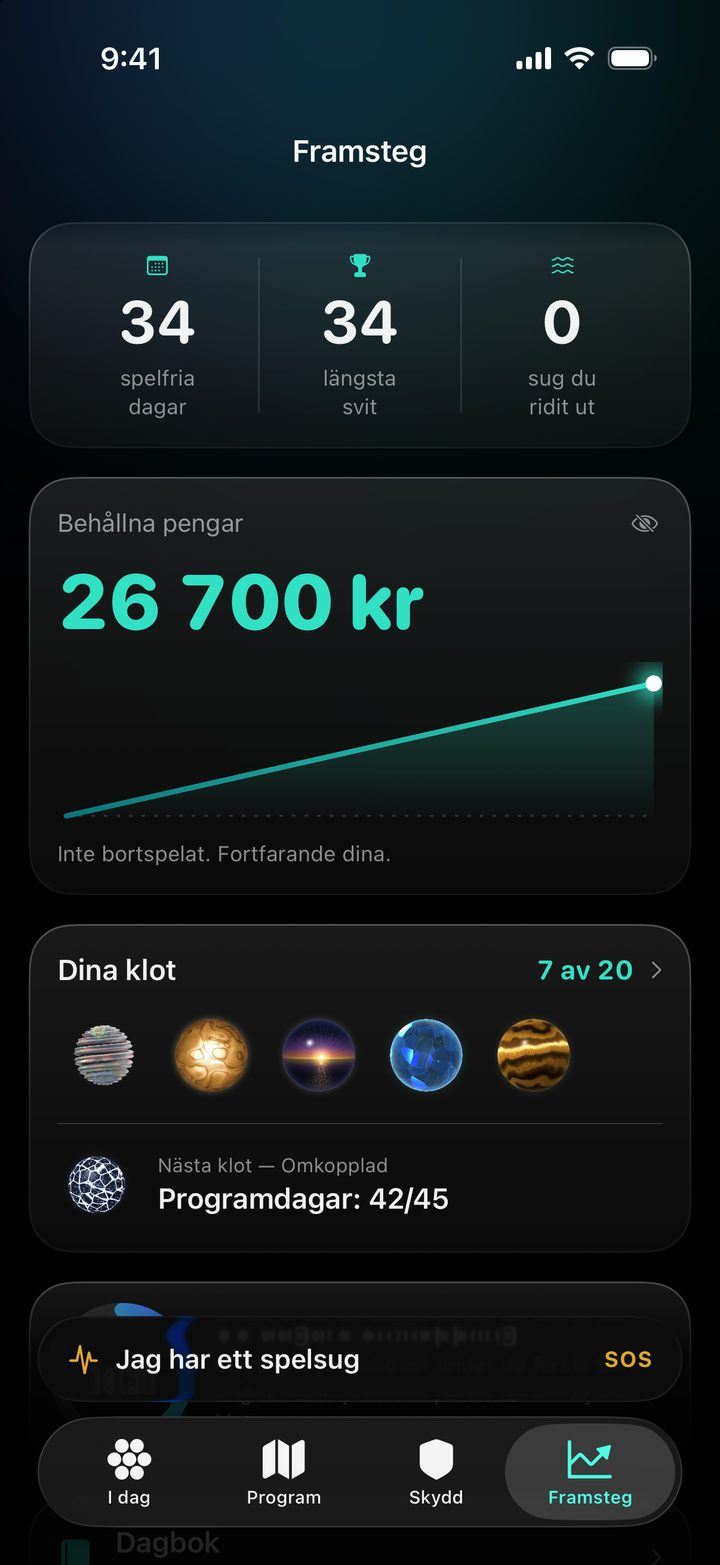
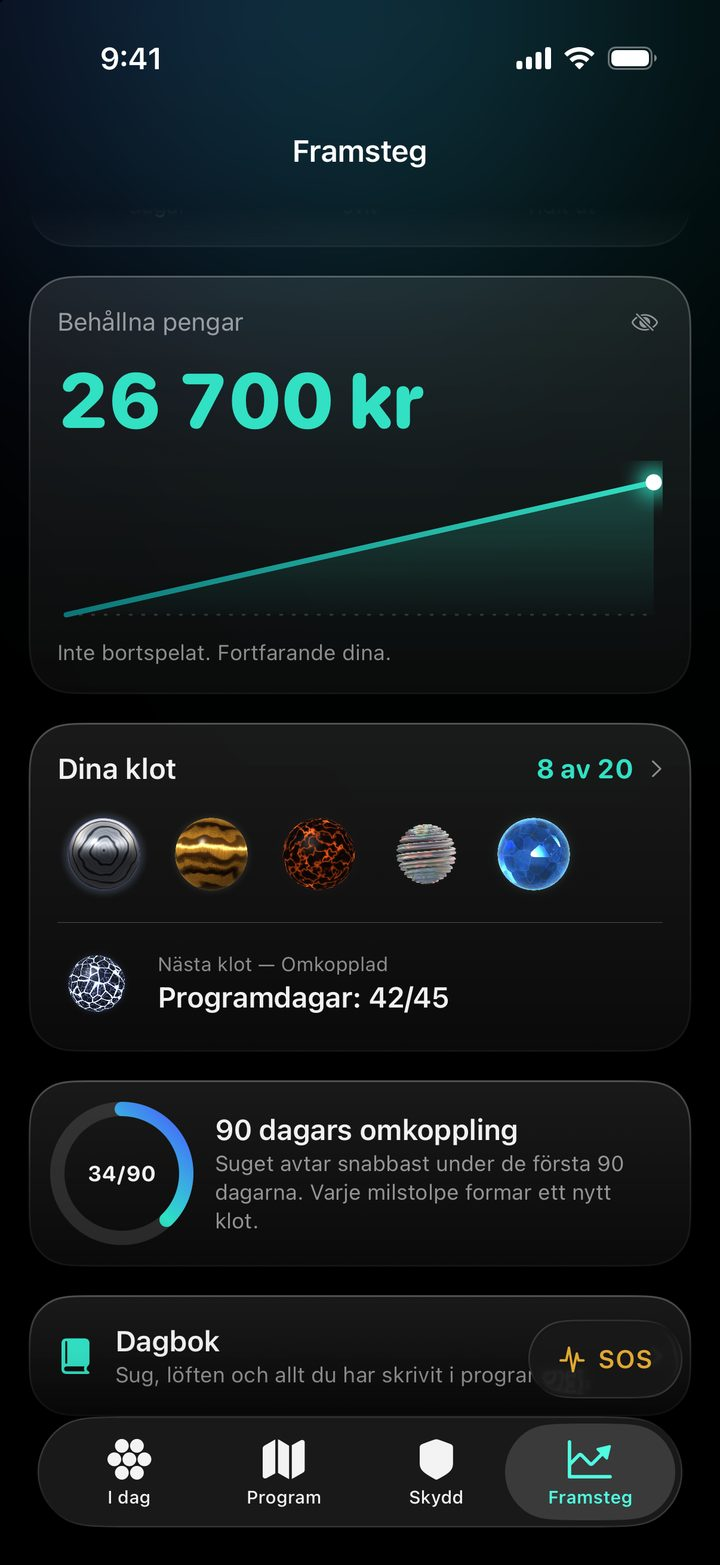
Homepage screenshots: current app design in all six languages
Same five screens (Today, Protection, Program, SOS, Progress) recaptured
from the current app, alt texts updated to match.

diff --git a/index.html b/index.html
@@ -57,7 +57,7 @@
     </div>
     <div class="hero-shot">
       <img class="phone" src="/assets/shots/dashboard.jpg" width="720" height="1565" fetchpriority="high"
-           alt="Silex home screen: 34 days free, $1,263 kept, today's pledge and today's program lesson.">
+           alt="Silex home screen: 34 days free, a clock counting the hours, $2,670 kept, and today's pledge.">
     </div>
   </div>
 </section>
@@ -79,7 +79,7 @@
     </div>
     <div class="feature-shot">
       <img class="phone" src="/assets/shots/protect.jpg" width="720" height="1565" loading="lazy"
-           alt="Protection screen: four of five layers active, split into automatic and guided layers.">
+           alt="Protection screen: five of five layers active, split into automatic and guided layers.">
     </div>
   </div>
 </section>
@@ -99,7 +99,7 @@
     </div>
     <div class="feature-shot">
       <img class="phone" src="/assets/shots/program.jpg" width="720" height="1565" loading="lazy"
-           alt="The 90-day Storm to Clarity program, on day 42, with the first phase's lessons listed.">
+           alt="The 90-day Storm to Clarity program on day 34, with finished days above and the days ahead below.">
     </div>
   </div>
 </section>
@@ -115,7 +115,7 @@
     </div>
     <div class="feature-shot">
       <img class="phone" src="/assets/shots/panic.jpg" width="720" height="1565" loading="lazy"
-           alt="The SOS screen asking how strong the urge is right now, rated 7 out of 9.">
+           alt="The SOS screen asking how strong the urge is right now, rated 9 out of 10.">
     </div>
   </div>
 </section>
@@ -131,7 +131,7 @@
     </div>
     <div class="feature-shot">
       <img class="phone" src="/assets/shots/money.jpg" width="720" height="1565" loading="lazy"
-           alt="Progress screen: $1,263 kept, seven of twenty orbs earned, and 34 of 90 days on the program.">
+           alt="Progress screen: $2,670 kept, eight of twenty orbs earned, and 34 of 90 days on the program.">
     </div>
   </div>
 </section>

diff --git a/src/pages/index.html b/src/pages/index.html
@@ -28,7 +28,7 @@
     </div>
     <div class="hero-shot">
       <img class="phone" src="/assets/shots/dashboard.jpg" width="720" height="1565" fetchpriority="high"
-           alt="Silex home screen: 34 days free, $1,263 kept, today's pledge and today's program lesson.">
+           alt="Silex home screen: 34 days free, a clock counting the hours, $2,670 kept, and today's pledge.">
     </div>
   </div>
 </section>
@@ -50,7 +50,7 @@
     </div>
     <div class="feature-shot">
       <img class="phone" src="/assets/shots/protect.jpg" width="720" height="1565" loading="lazy"
-           alt="Protection screen: four of five layers active, split into automatic and guided layers.">
+           alt="Protection screen: five of five layers active, split into automatic and guided layers.">
     </div>
   </div>
 </section>
@@ -70,7 +70,7 @@
     </div>
     <div class="feature-shot">
       <img class="phone" src="/assets/shots/program.jpg" width="720" height="1565" loading="lazy"
-           alt="The 90-day Storm to Clarity program, on day 42, with the first phase's lessons listed.">
+           alt="The 90-day Storm to Clarity program on day 34, with finished days above and the days ahead below.">
     </div>
   </div>
 </section>
@@ -86,7 +86,7 @@
     </div>
     <div class="feature-shot">
       <img class="phone" src="/assets/shots/panic.jpg" width="720" height="1565" loading="lazy"
-           alt="The SOS screen asking how strong the urge is right now, rated 7 out of 9.">
+           alt="The SOS screen asking how strong the urge is right now, rated 9 out of 10.">
     </div>
   </div>
 </section>
@@ -102,7 +102,7 @@
     </div>
     <div class="feature-shot">
       <img class="phone" src="/assets/shots/money.jpg" width="720" height="1565" loading="lazy"
-           alt="Progress screen: $1,263 kept, seven of twenty orbs earned, and 34 of 90 days on the program.">
+           alt="Progress screen: $2,670 kept, eight of twenty orbs earned, and 34 of 90 days on the program.">
     </div>
   </div>
 </section>

diff --git a/es/index.html b/es/index.html
@@ -57,7 +57,7 @@
     </div>
     <div class="hero-shot">
       <img class="phone" src="/assets/shots/es/dashboard.jpg" width="720" height="1565" fetchpriority="high"
-           alt="Pantalla de inicio de Silex: 34 días libres, el dinero guardado, el compromiso de hoy y la lección del programa.">
+           alt="Pantalla de inicio de Silex: 34 días libres, un reloj que cuenta las horas, el dinero conservado y el compromiso de hoy.">
     </div>
   </div>
 </section>
@@ -77,7 +77,7 @@
     </div>
     <div class="feature-shot">
       <img class="phone" src="/assets/shots/es/protect.jpg" width="720" height="1565" loading="lazy"
-           alt="Pantalla de protección: cuatro de cinco capas activas, entre automáticas y guiadas.">
+           alt="Pantalla de protección: cinco de cinco capas activas, entre automáticas y guiadas.">
     </div>
   </div>
 </section>
@@ -98,7 +98,7 @@
     </div>
     <div class="feature-shot">
       <img class="phone" src="/assets/shots/es/program.jpg" width="720" height="1565" loading="lazy"
-           alt="El programa de 90 días, en el día 42, con las lecciones de la primera fase.">
+           alt="El programa de 90 días, en el día 34, con los días ya hechos arriba y los siguientes abajo.">
     </div>
   </div>
 </section>
@@ -130,7 +130,7 @@
     </div>
     <div class="feature-shot">
       <img class="phone" src="/assets/shots/es/money.jpg" width="720" height="1565" loading="lazy"
-           alt="Pantalla de progreso: el dinero guardado, las piezas ganadas y los días del programa.">
+           alt="Pantalla de progreso: 2460 € conservados, 8 de 20 orbes y 34 de 90 días del programa.">
     </div>
   </div>
 </section>

diff --git a/src/pages/es/index.html b/src/pages/es/index.html
@@ -28,7 +28,7 @@
     </div>
     <div class="hero-shot">
       <img class="phone" src="/assets/shots/es/dashboard.jpg" width="720" height="1565" fetchpriority="high"
-           alt="Pantalla de inicio de Silex: 34 días libres, el dinero guardado, el compromiso de hoy y la lección del programa.">
+           alt="Pantalla de inicio de Silex: 34 días libres, un reloj que cuenta las horas, el dinero conservado y el compromiso de hoy.">
     </div>
   </div>
 </section>
@@ -48,7 +48,7 @@
     </div>
     <div class="feature-shot">
       <img class="phone" src="/assets/shots/es/protect.jpg" width="720" height="1565" loading="lazy"
-           alt="Pantalla de protección: cuatro de cinco capas activas, entre automáticas y guiadas.">
+           alt="Pantalla de protección: cinco de cinco capas activas, entre automáticas y guiadas.">
     </div>
   </div>
 </section>
@@ -69,7 +69,7 @@
     </div>
     <div class="feature-shot">
       <img class="phone" src="/assets/shots/es/program.jpg" width="720" height="1565" loading="lazy"
-           alt="El programa de 90 días, en el día 42, con las lecciones de la primera fase.">
+           alt="El programa de 90 días, en el día 34, con los días ya hechos arriba y los siguientes abajo.">
     </div>
   </div>
 </section>
@@ -101,7 +101,7 @@
     </div>
     <div class="feature-shot">
       <img class="phone" src="/assets/shots/es/money.jpg" width="720" height="1565" loading="lazy"
-           alt="Pantalla de progreso: el dinero guardado, las piezas ganadas y los días del programa.">
+           alt="Pantalla de progreso: 2460 € conservados, 8 de 20 orbes y 34 de 90 días del programa.">
     </div>
   </div>
 </section>

diff --git a/fi/index.html b/fi/index.html
@@ -133,7 +133,7 @@
     </div>
     <div class="feature-shot">
       <img class="phone" src="/assets/shots/fi/money.jpg" width="720" height="1565" loading="lazy"
-           alt="Edistys-näyttö: 34 rahapelitöntä päivää, säästetyt rahat 2 460 € ja seitsemän kehrää kahdestakymmenestä.">
+           alt="Edistys-näyttö: 34 rahapelitöntä päivää, säästetyt rahat 2 460 € ja kahdeksan kehrää kahdestakymmenestä.">
     </div>
   </div>
 </section>

diff --git a/src/pages/fi/index.html b/src/pages/fi/index.html
@@ -105,7 +105,7 @@
     </div>
     <div class="feature-shot">
       <img class="phone" src="/assets/shots/fi/money.jpg" width="720" height="1565" loading="lazy"
-           alt="Edistys-näyttö: 34 rahapelitöntä päivää, säästetyt rahat 2 460 € ja seitsemän kehrää kahdestakymmenestä.">
+           alt="Edistys-näyttö: 34 rahapelitöntä päivää, säästetyt rahat 2 460 € ja kahdeksan kehrää kahdestakymmenestä.">
     </div>
   </div>
 </section>

diff --git a/no/index.html b/no/index.html
@@ -132,7 +132,7 @@
     </div>
     <div class="feature-shot">
       <img class="phone" src="/assets/shots/no/money.jpg" width="720" height="1565" loading="lazy"
-           alt="Fremgang-fanen i Silex: 26 700 kr i penger beholdt, 34 spillfrie dager og 7 av 20 orber.">
+           alt="Fremgang-fanen i Silex: 26 700 kr i penger beholdt, 34 spillfrie dager og 8 av 20 orber.">
     </div>
   </div>
 </section>

diff --git a/src/pages/no/index.html b/src/pages/no/index.html
@@ -104,7 +104,7 @@
     </div>
     <div class="feature-shot">
       <img class="phone" src="/assets/shots/no/money.jpg" width="720" height="1565" loading="lazy"
-           alt="Fremgang-fanen i Silex: 26 700 kr i penger beholdt, 34 spillfrie dager og 7 av 20 orber.">
+           alt="Fremgang-fanen i Silex: 26 700 kr i penger beholdt, 34 spillfrie dager og 8 av 20 orber.">
     </div>
   </div>
 </section>

diff --git a/src/pages/sv/index.html b/src/pages/sv/index.html
@@ -104,7 +104,7 @@
     </div>
     <div class="feature-shot">
       <img class="phone" src="/assets/shots/sv/money.jpg" width="720" height="1565" loading="lazy"
-           alt="Fliken Framsteg: 26 700 kr i behållna pengar, 34 spelfria dagar och 7 av 20 klot.">
+           alt="Fliken Framsteg: 26 700 kr i behållna pengar, 34 spelfria dagar och 8 av 20 klot.">
     </div>
   </div>
 </section>

diff --git a/sv/index.html b/sv/index.html
@@ -132,7 +132,7 @@
     </div>
     <div class="feature-shot">
       <img class="phone" src="/assets/shots/sv/money.jpg" width="720" height="1565" loading="lazy"
-           alt="Fliken Framsteg: 26 700 kr i behållna pengar, 34 spelfria dagar och 7 av 20 klot.">
+           alt="Fliken Framsteg: 26 700 kr i behållna pengar, 34 spelfria dagar och 8 av 20 klot.">
     </div>
   </div>
 </section>

diff --git a/da/index.html b/da/index.html
@@ -132,7 +132,7 @@
     </div>
     <div class="feature-shot">
       <img class="phone" src="/assets/shots/da/money.jpg" width="720" height="1565" loading="lazy"
-           alt="Skærmen Fremskridt: 26.700 kr. i behold, 34 spillefrie dage og 7 af 20 sfærer.">
+           alt="Skærmen Fremskridt: 26.700 kr. i behold, 34 spillefrie dage og 8 af 20 sfærer.">
     </div>
   </div>
 </section>

diff --git a/src/pages/da/index.html b/src/pages/da/index.html
@@ -104,7 +104,7 @@
     </div>
     <div class="feature-shot">
       <img class="phone" src="/assets/shots/da/money.jpg" width="720" height="1565" loading="lazy"
-           alt="Skærmen Fremskridt: 26.700 kr. i behold, 34 spillefrie dage og 7 af 20 sfærer.">
+           alt="Skærmen Fremskridt: 26.700 kr. i behold, 34 spillefrie dage og 8 af 20 sfærer.">
     </div>
   </div>
 </section>
